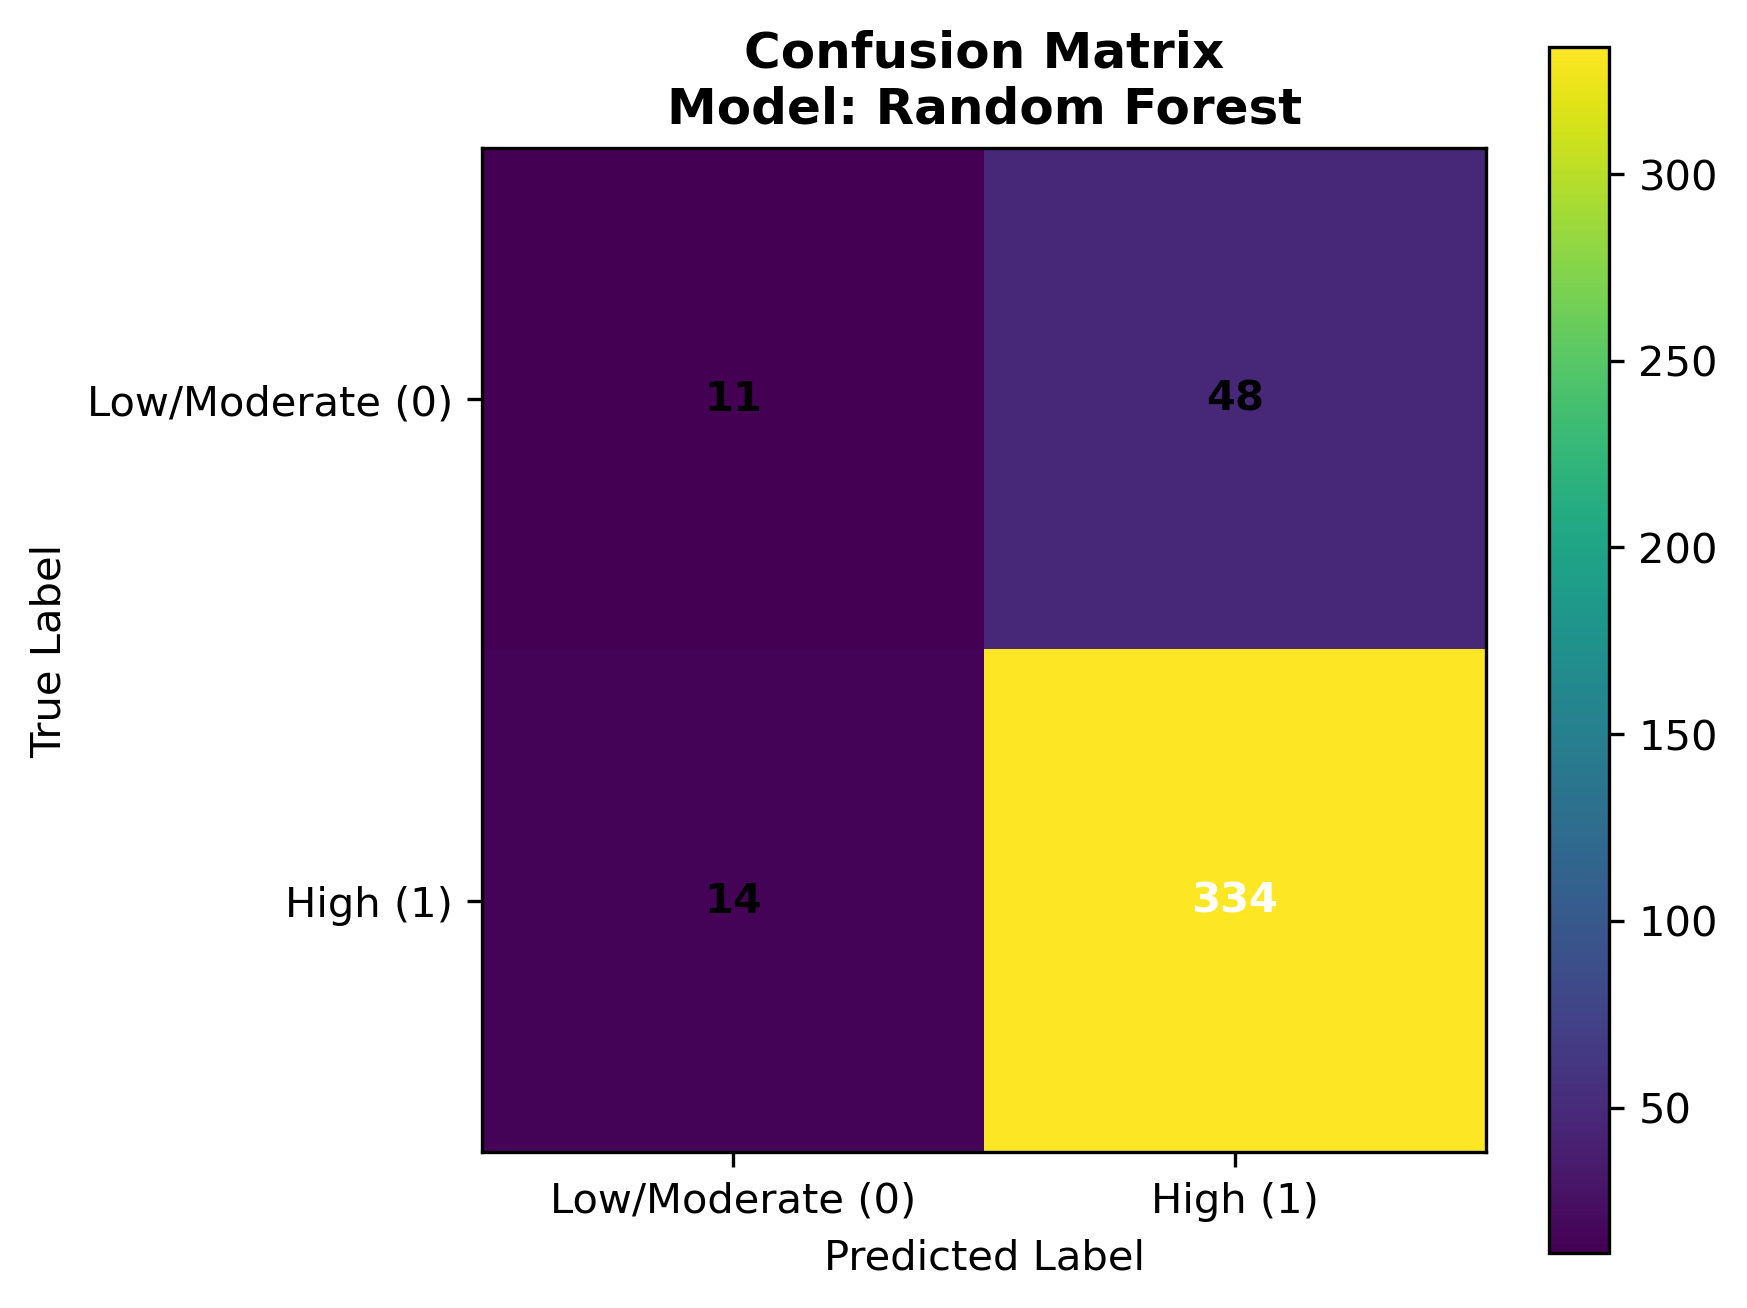
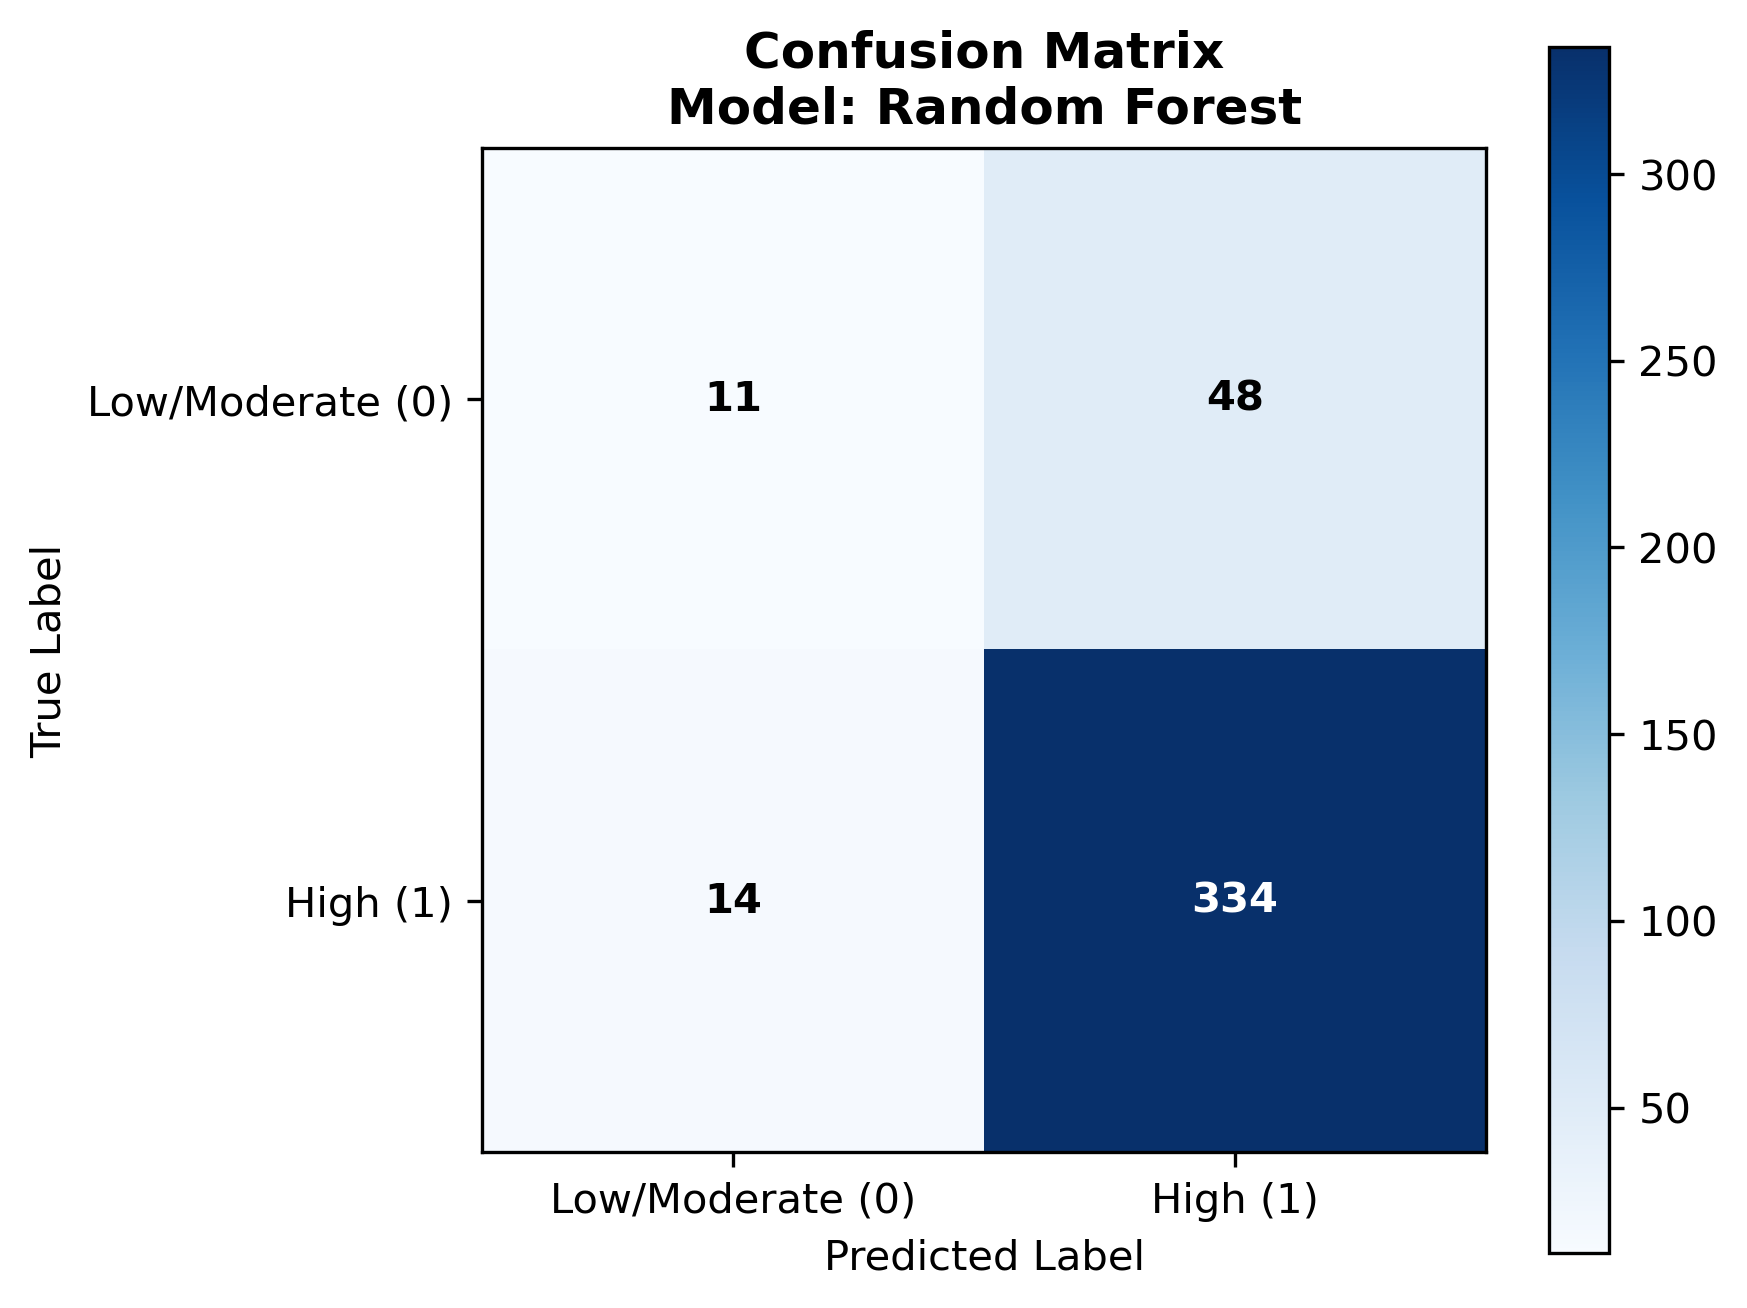
style: update confusion matrix visualization

diff --git a/src/03_modeling.py b/src/03_modeling.py
@@ -383,11 +383,11 @@ def plot_model_comparison(df_results: pd.DataFrame) -> None:
 
 
 def plot_confusion_matrix(y_test: pd.Series, y_pred: np.ndarray, model_name: str) -> None:
-    """Membuat dan menyimpan confusion matrix best model."""
+    """Membuat dan menyimpan confusion matrix best model"""
     cm = confusion_matrix(y_test, y_pred, labels=[0, 1])
 
     fig, ax = plt.subplots(figsize=(6, 5))
-    im = ax.imshow(cm, interpolation="nearest")
+    im = ax.imshow(cm, interpolation="nearest", cmap="Blues")
     fig.colorbar(im, ax=ax)
 
     ax.set_title(f"Confusion Matrix\nModel: {model_name}", fontsize=12, fontweight="bold")